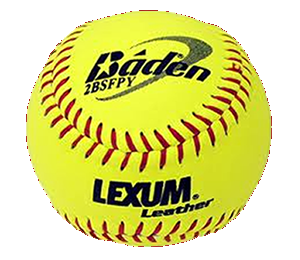
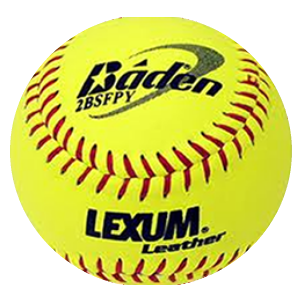
Altered the quality of images and added them to the table

diff --git a/init/index.html b/init/index.html
@@ -1,66 +1,71 @@
  <!--Allen Thich, Jimmy Wu, Luis Ramirez, Vonnie Wu-->
-<html>
-<head>
+ <html>
+ <head>
 
-</head>
-<body>
- <table>
-            <tr>
-                <td>Basketball</td>
-                <td>$19:99</td>
-            </tr>
-             <tr>
-                 <td>Football</td>
-                 <td>$19:99</td>
-            </tr>
-             <tr>
-                 <td>Soccer ball</td>
-                 <td>$19:99</td>
-            </tr>
-             <tr>
-                 <td>Baseball</td>
-                 <td>$19:99</td>
+ </head>
+ <body>
+   <table>
+    <tr>
+        <td>Basketball</td>
+        <td>$19:99</td>
+        <td><img src="../resources/basketball.png" width="300" height="300"></td>
+    </tr>
+    <tr>
+       <td>Football</td>
+       <td>$19:99</td>
+       <td><img src="../resources/football.png" width="300" height="300"></td>
+   </tr>
+   <tr>
+       <td>Soccer ball</td>
+       <td>$19:99</td>
+       <td><img src="../resources/soccerball.png" width="300" height="300"></td>
+   </tr>
+   <tr>
+       <td>Baseball</td>
+       <td>$19:99</td>
+       <td><img src="../resources/baseball.png" width="300" height="300"></td>
+   </tr>
+   <tr>
+       <td>Golf Ball</td>
+       <td>$19:99</td>
+       <td><img src="../resources/golfball.png" width="300" height="300"></td>
+   </tr>
+   <tr>
+    <td>Tennis Ball</td>
+    <td>$19:99</td>
+    <td><img src="../resources/tennisball.png" width="300" height="300"></td>
+</tr>
+<tr>
+   <td>Pingpong Ball</td>
+   <td>$19:99</td>
+   <td><img src="../resources/pingpongball.png" width="300" height="300"></td>
+</tr>
+<tr>
+   <td>Softball</td>
+   <td>$19:99</td>
+   <td><img src="../resources/softball.png" width="300" height="300"></td>
+</tr>
+<tr>
+   <td>Volleyball</td>
+   <td>$19:99</td>
+   <td><img src="../resources/volleyball.png" width="300" height="300"></td>
+</tr>
+<tr>
+   <td>Bowling Ball</td>
+   <td>$19:99</td>
+   <td><img src="../resources/bowlingball.png" width="300" height="300"></td>
+</tr>
+<tr>
+   <td>Water Polo Ball</td>
+   <td>$19:99</td>
+   <td><img src="../resources/waterpoloball.png" width="300" height="300"></td>
+</tr>
+<tr>
+   <td>Medicine Ball</td>
+   <td>$19:99</td>
+   <td><img src="../resources/medicineball.png" width="300" height="300"></td>
+</tr>
 
-            </tr>
-             <tr>
-                 <td>Golf Ball</td>
-                 <td>$19:99</td>
-            </tr>
-             <tr>
-                 <td>Tennis Ball</td>
-                 <td>$19:99</td>
-            </tr>
-             <tr>
-                 <td>Pingpong Ball</td>
-                 <td>$19:99</td>
-
-            </tr>
-             <tr>
-                 <td>Softball</td>
-                 <td>$19:99</td>
-
-            </tr>
-             <tr>
-                 <td>Volleyball</td>
-                 <td>$19:99</td>
-
-            </tr>
-             <tr>
-                 <td>Bowling Ball</td>
-                 <td>$19:99</td>
-               
-            </tr>
-             <tr>
-                 <td>Water Polo Ball</td>
-                 <td>$19:99</td>
-                
-            </tr>
-             <tr>
-                 <td>Medicine Ball</td>
-                 <td>$19:99</td>
-                 
-            </tr>
-            
-        </table>
+</table>
 </body>
 </html>
